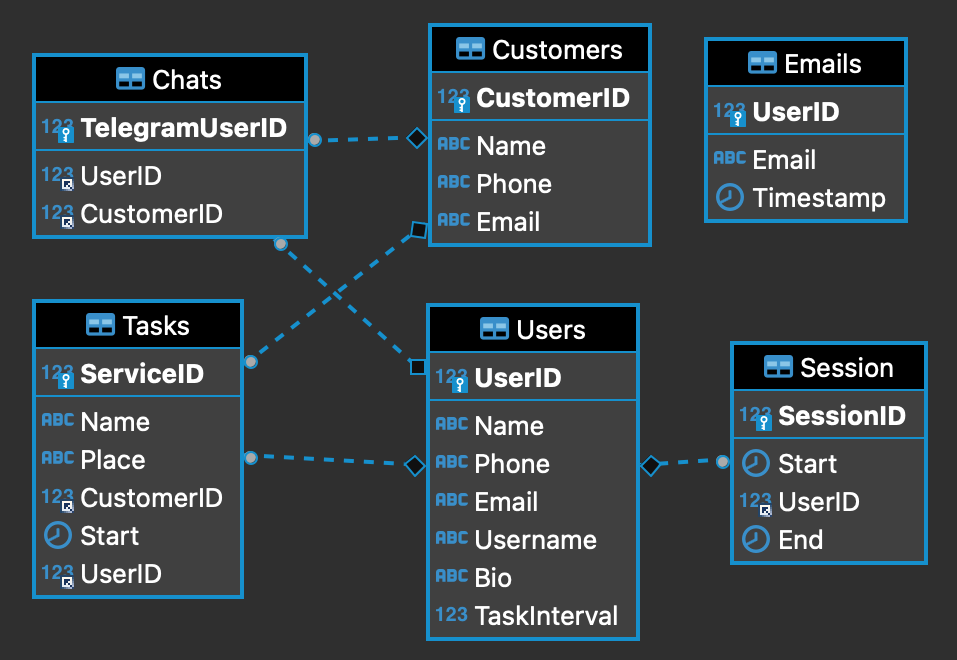
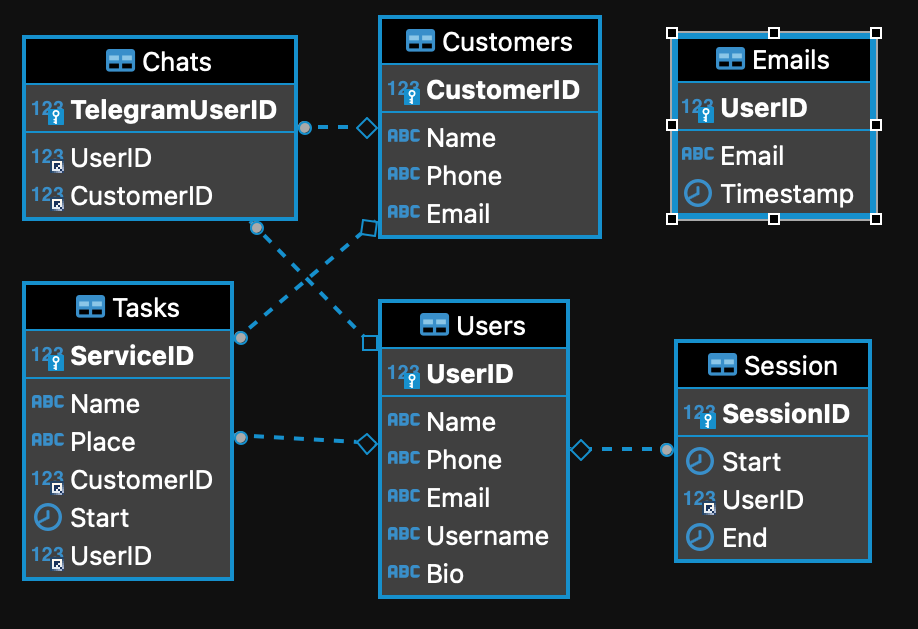
Remove Taskinterval from Users

diff --git a/Infrastructure/tableInit.js b/Infrastructure/tableInit.js
@@ -52,7 +52,6 @@ class TableInit {
             Email varchar(30),
             Username varchar(12),
             Bio varchar(100),
-            TaskInterval int,
             UserID int NOT NULL AUTO_INCREMENT,
             PRIMARY KEY (UserID)
         );
@@ -117,22 +116,19 @@ class TableInit {
             Phone,
             Email,
             Username,
-            Bio,
-            TaskInterval
+            Bio
         ) VALUES (
             'Joao Pedro Brandao',
             '21988888888',
             'jp.brs@poli.ufrj.br',
             'jpbrs',
-            'Aluno de ECI. 100 reais a hora de programação',
-            60
+            'Aluno de ECI. 100 reais a hora de programação'
             ), (
             'Pedro Maciel Xavier',
             '24999999999',
             'pedromxavier@poli.ufrj.br',
             'pedromxavier',
-            'Um menino sonhador',
-            45
+            'Um menino sonhador'
         );
 
         INSERT INTO Customers (
